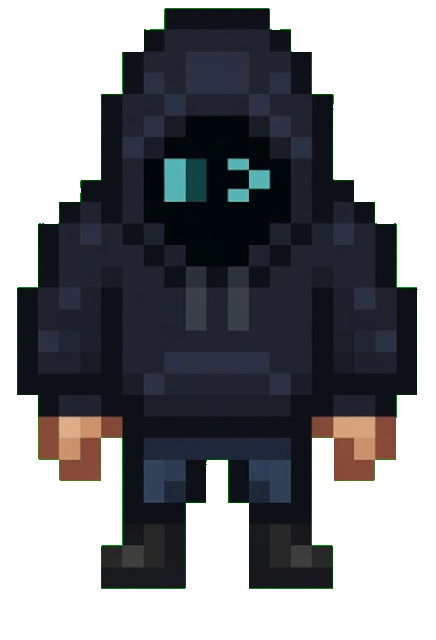
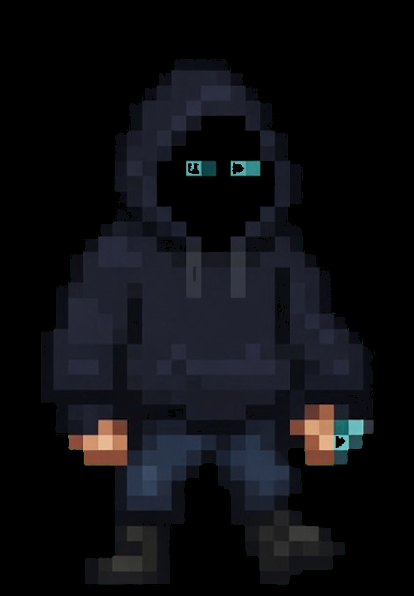
feat(art): Batch 2B prop-stable player idle second frames
Replace idle _2 frames so the cyan device no longer pops between idle
poses. Sync masters; video-first walk expansion still blocked under ZDR.

diff --git a/docs/animation/ANIMATION_BATCH_2B_RECEIPT.md b/docs/animation/ANIMATION_BATCH_2B_RECEIPT.md
@@ -1,0 +1,60 @@
+# Gameplay animation work receipt — Batch 2B (player idle quality)
+
+| Field | Value |
+| --- | --- |
+| Batch | **2B** — Player idle continuity fix (prop-stable `_2` frames) |
+| Date (UTC) | 2026-08-01 |
+| Official ladder note | Quality pass on Batch 2 player cycles; does **not** replace ladder Batch 3 (projectile/impact) |
+| Video pipeline | **Blocked** — ZDR requires `output.upload_url` for `image_to_video` |
+| Fallback | Keyframe `image_edit` from existing base stills |
+
+## Audit findings addressed
+
+| ID | Finding | Resolution |
+| --- | --- | --- |
+| A-01 | Idle `down` device prop popped between f1/f2 | Replaced all `player_idle_{dir}_2` with prop-stable breath frames |
+| A-03 (partial) | Masters incomplete for idle | Idle bases + `_2` written under `Resources/Animation/Masters/Player/` |
+| A-02 | Under target frame counts | **Deferred** — needs video-first harvest for walk 6–10 / idle 4–8 |
+| A-04 | Not video-first | Documented ZDR block; next expansion waits on video upload path |
+
+## Delivered
+
+| Asset | Action |
+| --- | --- |
+| `player_idle_down_2.png` | Replaced (device prop continuous, subtle breath) |
+| `player_idle_left_2.png` | Replaced |
+| `player_idle_right_2.png` | Replaced |
+| `player_idle_up_2.png` | Replaced |
+| Masters/Player idle bases + `_2` | Synced from runtime |
+| xcassets imagesets | Updated PNG payloads |
+| Walk banks | **Unchanged** (4f remain; keyframe pilots not shipped) |
+
+Canvas remains **414×596** RGBA, black key, nearest-neighbor friendly.
+
+## Flip test (idle down)
+
+1. Base: standing, cyan device in hand.  
+2. `_2`: same device presence, subtle posture/weight shift.  
+3. Loop 2→1: prop does not vanish (continuity pass vs prior bank).
+
+## Validation
+
+```bash
+make animation-check   # PASS
+make assets-check      # PASS (194 runtime PNGs)
+```
+
+## Not in this batch
+
+- Walk density expansion to 6–10 frames  
+- Damage / defeat / extract / LPR / boss multi-frame  
+- Weapon flight sheets (ladder Batch 3 / VFX track)  
+
+## Next
+
+When video generation is available (non-ZDR or signed `upload_url`):
+
+1. `image_to_video` from `player_walk_down` / `player_idle_down` bases, camera locked, in place.  
+2. Harvest `fps=12`, select full gait / breath period.  
+3. Clean + package all four directions.  
+4. Update `PlayerAtlasManifest` frameCounts if counts change.  

diff --git a/docs/GAMEPLAY_ANIMATION_PLAN.md b/docs/GAMEPLAY_ANIMATION_PLAN.md
@@ -30,6 +30,8 @@
 | Batch 0 inventory receipts | **Done** — [`animation/ANIMATION_BATCH_0_RECEIPT.md`](animation/ANIMATION_BATCH_0_RECEIPT.md) |
 | Batch 1 presentation architecture | **Done** — [`animation/ANIMATION_BATCH_1_RECEIPT.md`](animation/ANIMATION_BATCH_1_RECEIPT.md) |
 | Batch 2 multi-frame player | **Done** — walk 4f / idle 2f × 4 dirs (#49) · [`ANIMATION_BATCH_2_RECEIPT.md`](animation/ANIMATION_BATCH_2_RECEIPT.md) |
+| Batch 2B idle quality | **Done** — prop-stable idle `_2` (2026-08-01) · [`ANIMATION_BATCH_2B_RECEIPT.md`](animation/ANIMATION_BATCH_2B_RECEIPT.md) |
+| Video-first walk density (6–10f) | **Blocked** — ZDR `image_to_video` needs upload_url |
 | Secondary-motion / interpolation layer | **Implemented** (`PresentationPipeline`) |
 | Weapon P0 stills | **Runtime integrated** (#49) |
 | SKPhysics gameplay | **Forbidden** / not used as authority |
@@ -43,8 +45,10 @@
 3. ~~Batch 0 inventory~~ **Done**.  
 4. ~~Batch 1 presentation architecture~~ **Done**.  
 5. ~~Batch 2 player multi-frame~~ **Done** (#49).  
-6. Optional later: enemy/boss/LPR sequences; deployable multi-state motion.  
-7. Never change `SurveillanceCore` combat math for “better feel.”  
+5b. ~~Batch 2B idle prop continuity~~ **Done** (2026-08-01).  
+6. When video available: expand walk/idle to manifest target_frames via video-first harvest.  
+7. Ladder Batch 3+: projectile/impact motion (after VFX stills); LPR destroy; etc.  
+8. Never change `SurveillanceCore` combat math for “better feel.”  
 
 ---
 

diff --git a/docs/animation/README.md b/docs/animation/README.md
@@ -12,5 +12,6 @@
 | [`ANIMATION_BATCH_0_RECEIPT.md`](ANIMATION_BATCH_0_RECEIPT.md) | Batch 0 handoff |
 | [`ANIMATION_BATCH_1_RECEIPT.md`](ANIMATION_BATCH_1_RECEIPT.md) | Batch 1 presentation architecture |
 | [`ANIMATION_BATCH_2_RECEIPT.md`](ANIMATION_BATCH_2_RECEIPT.md) | Batch 2 player multi-frame |
+| [`ANIMATION_BATCH_2B_RECEIPT.md`](ANIMATION_BATCH_2B_RECEIPT.md) | Batch 2B idle prop-stable quality pass |
 
 Gate: `make animation-check`
